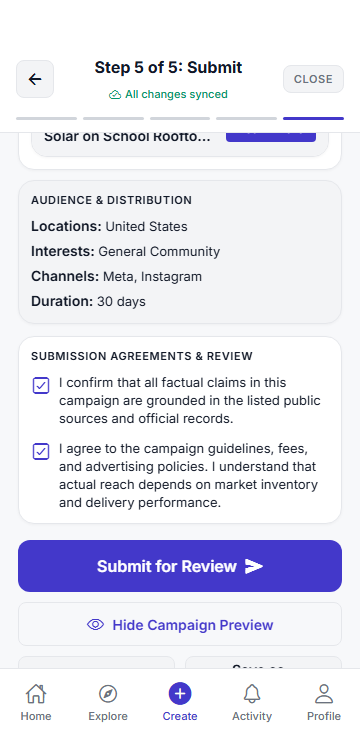
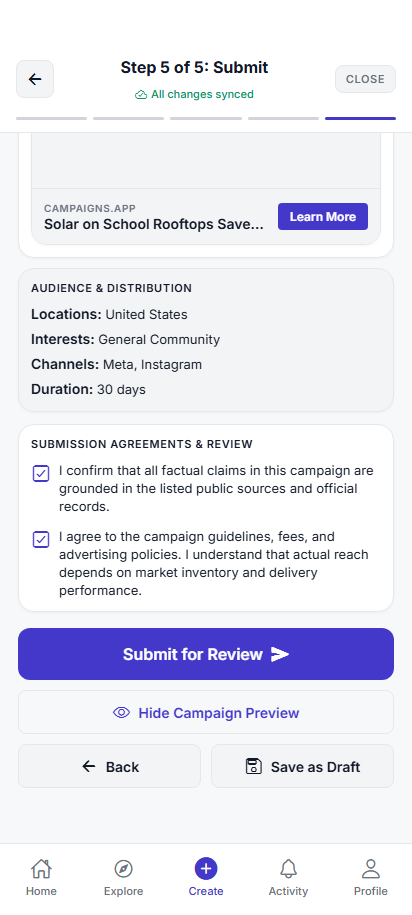
fix: resolve login validation and wire Edit button navigation in Creator Dashboard

diff --git a/mobile/src/screens/profile/CreatorDashboardScreen.tsx b/mobile/src/screens/profile/CreatorDashboardScreen.tsx
@@ -157,6 +157,27 @@ export function CreatorDashboardScreen({ route, navigation }: any) {
           text: 'Edit & Send to Review',
           onPress: () => {
             transitionCampaign(camp.id, 'changes_requested', 'creator', 'Creator initiated revisions.');
+            useDraftStore.getState().saveDraft({
+              id: camp.id,
+              step: 1,
+              title: camp.title || '',
+              category: camp.category || 'environment',
+              creatorName: camp.creatorName || camp.creator_name || '',
+              summary: camp.summary || camp.tagline || '',
+              coverUrl: camp.coverUrl || camp.ad_image_url || '',
+              storyBlocks: camp.storyBlocks || [],
+              sources: camp.sources || [],
+              adImages: camp.adImages || (camp.ad_image_url ? [camp.ad_image_url] : []),
+              headline: camp.headline || camp.ad_headline || '',
+              adDescription: camp.adDescription || camp.ad_primary_text || '',
+              cta: camp.cta || 'Learn More',
+              locations: camp.locations || ['Cook County'],
+              interests: camp.interests || ['Civic Engagement'],
+              channels: camp.channels || ['Meta', 'Instagram'],
+              budgetAllocation: camp.budgetAllocation || { Meta: 60, Instagram: 40 },
+              durationDays: camp.durationDays || 30,
+              fundingGoal: camp.fundingGoal || camp.funding_goal || 5000,
+            });
             navigation.navigate('CreateFlow', { draftId: camp.id, step: 1 });
           },
         },

diff --git a/mobile/src/screens/auth/AuthScreens.tsx b/mobile/src/screens/auth/AuthScreens.tsx
@@ -26,10 +26,20 @@ export function LoginScreen({ navigation, route }: any) {
   const login = useAuthStore((s) => s.login);
 
   const handleLogin = async (userEmail: string, pass: string) => {
+    const trimmedEmail = (userEmail || '').trim();
+    const trimmedPass = (pass || '').trim();
+    if (!trimmedEmail) {
+      setErrorMessage('Please enter your email address');
+      return;
+    }
+    if (!trimmedPass) {
+      setErrorMessage('Please enter your password');
+      return;
+    }
     setLoading(true);
     setErrorMessage(null);
     try {
-      const res = await apiClient.login(userEmail, pass || 'demo123');
+      const res = await apiClient.login(trimmedEmail, trimmedPass);
       login(res.user, res.token);
       if (navigation.canGoBack()) {
         navigation.goBack();
@@ -221,7 +231,7 @@ export function LoginScreen({ navigation, route }: any) {
         <View style={{ marginTop: 8 }}>
           <Button
             title="Sign In"
-            onPress={() => handleLogin(email || 'demo@example.com', password)}
+            onPress={() => handleLogin(email, password)}
             fullWidth
             size="lg"
             loading={loading && !wakingServer}

diff --git a/mobile/src/navigation/RootNavigator.tsx b/mobile/src/navigation/RootNavigator.tsx
@@ -90,6 +90,7 @@ function ProfileNavigator() {
     <ProfileStack.Navigator screenOptions={{ headerShown: false }}>
       <ProfileStack.Screen name="Profile" component={ProfileScreen} />
       <ProfileStack.Screen name="CreatorDashboard" component={CreatorDashboardScreen} />
+      <ProfileStack.Screen name="CreateFlow" component={CreateFlowScreen} />
       <ProfileStack.Screen name="Report" component={ReportScreen} />
       <ProfileStack.Screen name="InfoPage" component={InfoScreen} />
       <ProfileStack.Screen name="CampaignDetail" component={CampaignDetailScreen} />

diff --git a/mobile/src/types/navigation.ts b/mobile/src/types/navigation.ts
@@ -79,6 +79,7 @@ export type ProfileStackParamList = {
   MyContributions: undefined;
   MyCampaigns: undefined;
   CreatorDashboard: { initialTab?: string } | undefined;
+  CreateFlow: { draftId: string; step?: number };
   Report: { campaignId: string };
   InfoPage: { slug: string };
   CampaignDetail: { campaignId: string };
